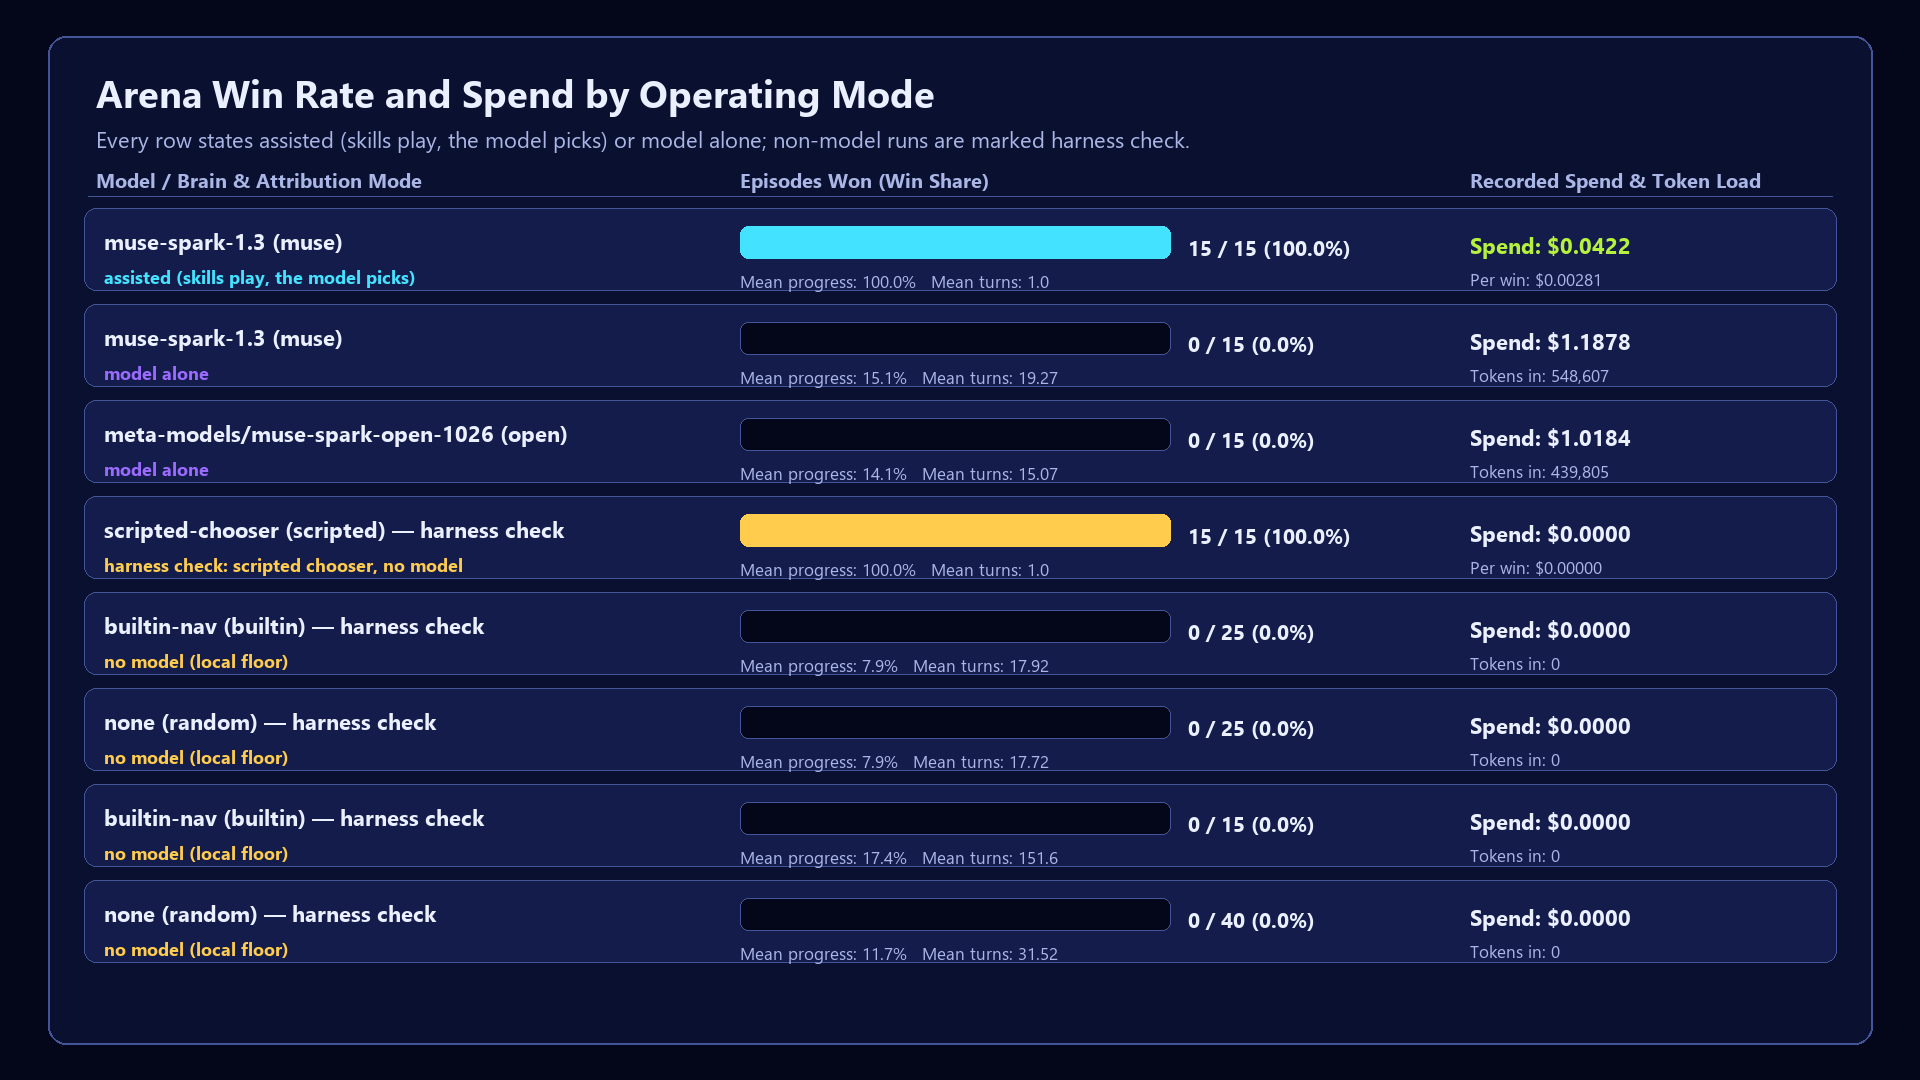
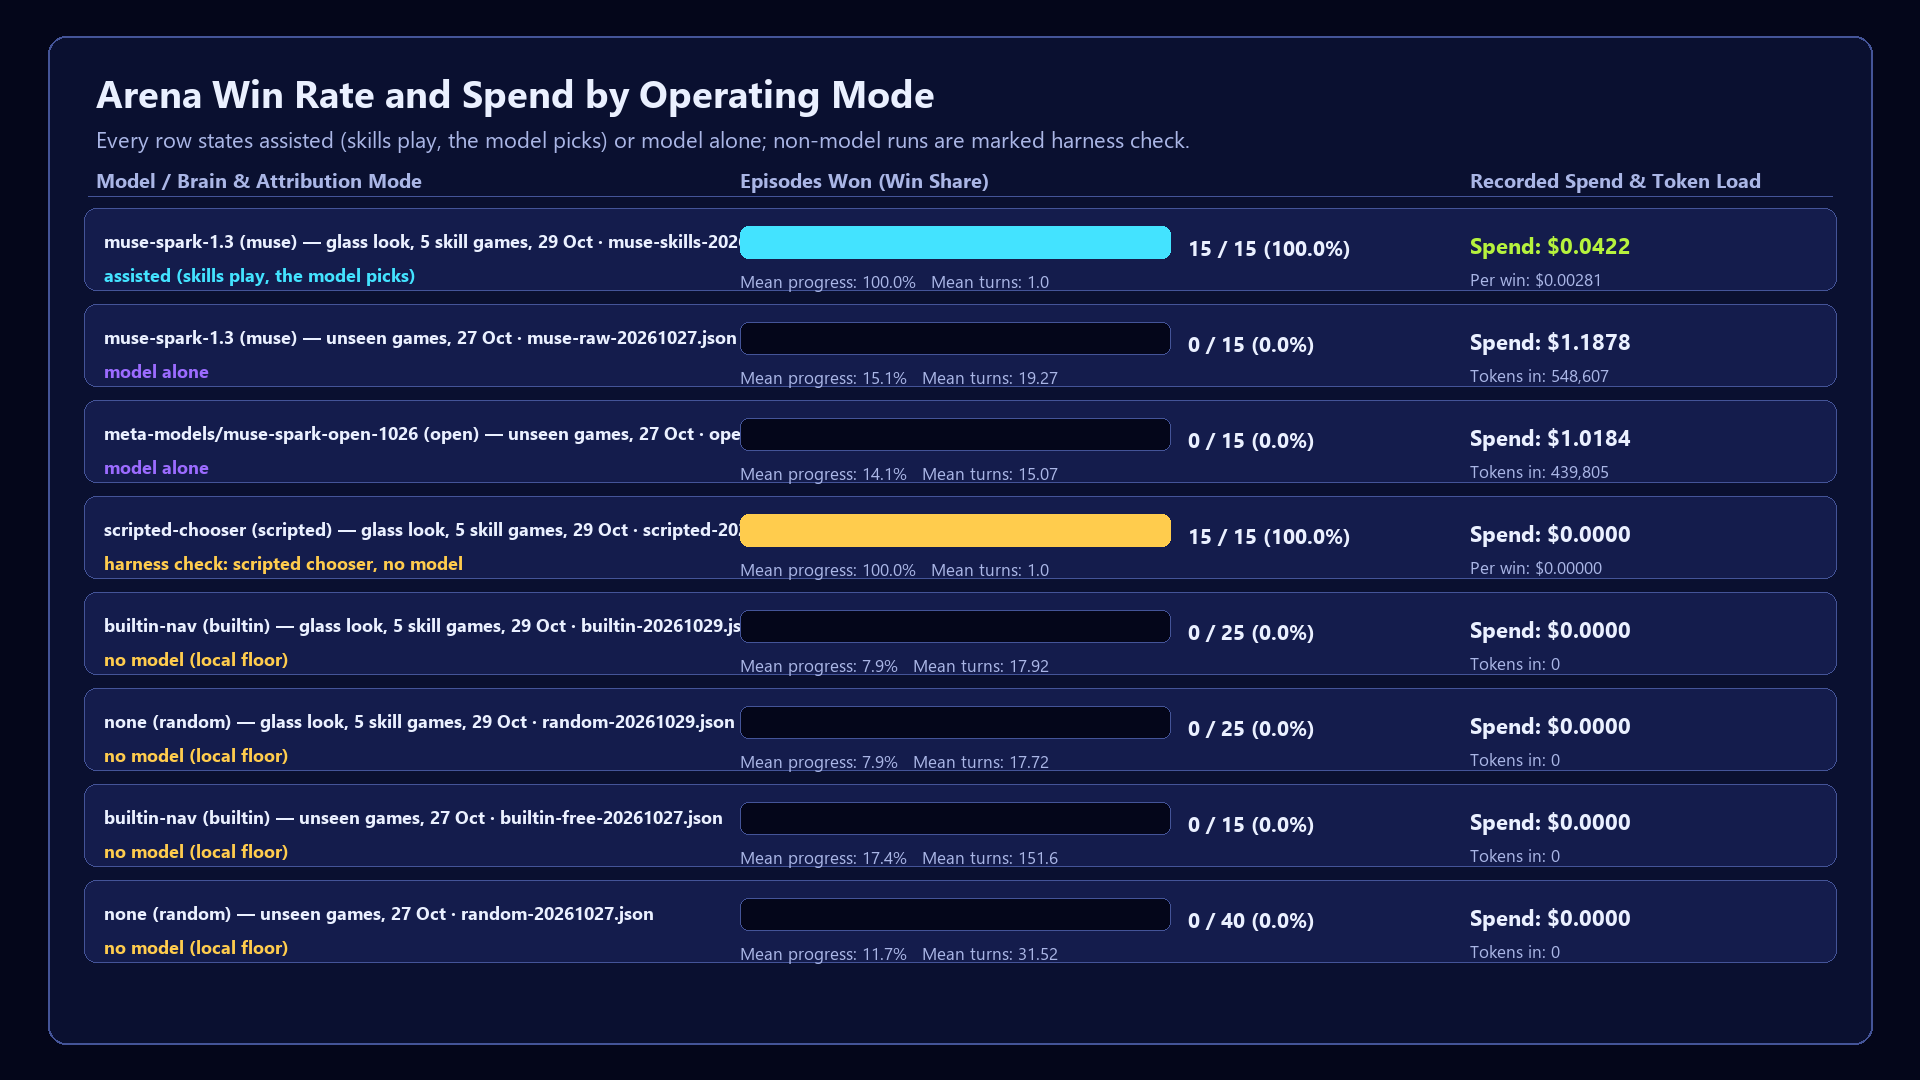
Name the benchmark set and source file on every row of Chart 1

diff --git a/tools/make_charts.py b/tools/make_charts.py
@@ -185,10 +185,11 @@ def _collect_json_numbers(obj: Any, raw_values: set[float], formatted: set[str])
     if isinstance(obj, (int, float)):
         val = float(obj)
         raw_values.add(val)
+        raw_values.add(abs(val))
         return
     if isinstance(obj, str):
         for m in _NUM_RE.findall(obj):
-            clean = m.replace(",", "")
+            clean = m.replace(",", "").lstrip("+-")
             formatted.add(clean)
             try:
                 raw_values.add(float(clean))
@@ -223,11 +224,22 @@ def allowed_numbers(results_dir: Path, committed_only: bool = True) -> set[str]:
     raw_values: set[float] = set()
     formatted: set[str] = set()
     for path in list_result_files(results_dir, committed_only=committed_only):
+        _collect_json_numbers(path.name, raw_values, formatted)
         data = json.loads(path.read_text(encoding="utf-8"))
         _collect_json_numbers(data, raw_values, formatted)
     for val in list(raw_values):
         _add_forms(val, formatted)
     return {s.replace(",", "") for s in formatted}
+
+
+def set_and_file_label(filename: str, data: dict[str, Any]) -> str:
+    """Return the benchmark set description and source filename for a result row."""
+    suite = str(data.get("suite") or "").strip().lower()
+    if suite == "glass" or "20261029" in filename:
+        return f"glass look, 5 skill games, 29 Oct · {filename}"
+    if suite == "unseen" or "20261027" in filename:
+        return f"unseen games, 27 Oct · {filename}"
+    return f"{suite or 'arena'} · {filename}"
 
 
 def visible_lines(svg_path: Path) -> list[str]:
@@ -308,14 +320,11 @@ def _build_arena_wins_and_cost(arena_rows: list[tuple[str, dict[str, Any]]], out
         assisted = ASSISTED_LABEL in mode
 
         accent = AMBER if harness else (CYAN if assisted else VIOLET)
-        suite = data.get("suite") or ""
-        suite_tag = f", {suite}" if suite else ""
-        model_title = f"{data.get('model')} ({data.get('brain')}{suite_tag})"
-        if harness:
-            model_title = f"{model_title} — {HARNESS_CHECK_LABEL}"
+        set_tag = set_and_file_label(filename, data)
+        model_title = f"{data.get('model')} ({data.get('brain')}) — {set_tag}"
 
-        c.text(104, y + 44, model_title, size=22, fill=INK, bold=True)
-        c.text(104, y + 78, mode, size=18, fill=accent, bold=True)
+        c.text(104, y + 42, model_title, size=18, fill=INK, bold=True)
+        c.text(104, y + 76, mode, size=18, fill=accent, bold=True)
 
         c.rect(bar_x, y + 26, bar_w, 32, BG_0, stroke=LINE, radius=8, stroke_width=1)
         fill_w = max(8 if win_rate > 0 else 0, round(bar_w * win_rate))

diff --git a/tests/test_make_charts.py b/tests/test_make_charts.py
@@ -80,3 +80,21 @@ def test_non_model_rows_use_honesty_ladder_labels_and_never_claim_a_model(tmp_pa
         low = line.lower()
         if any(tag in low for tag in ("scripted-chooser", "builtin-nav", "none (random)")):
             assert "model" not in low.replace("no model", ""), line
+
+
+def test_every_arena_row_names_its_test_set_and_result_file(tmp_path):
+    written = make_charts.build_all(results_dir=ROOT / "results", out_dir=tmp_path)
+    arena_text = make_charts.visible_text(written["arena-wins-and-cost"]["svg"])
+    assert "glass look, 5 skill games, 29 Oct" in arena_text
+    assert "unseen games, 27 Oct" in arena_text
+    for fname in (
+        "muse-skills-20261029.json",
+        "scripted-20261029.json",
+        "builtin-20261029.json",
+        "random-20261029.json",
+        "muse-raw-20261027.json",
+        "open-raw-20261027.json",
+        "builtin-free-20261027.json",
+        "random-20261027.json",
+    ):
+        assert fname in arena_text, fname
